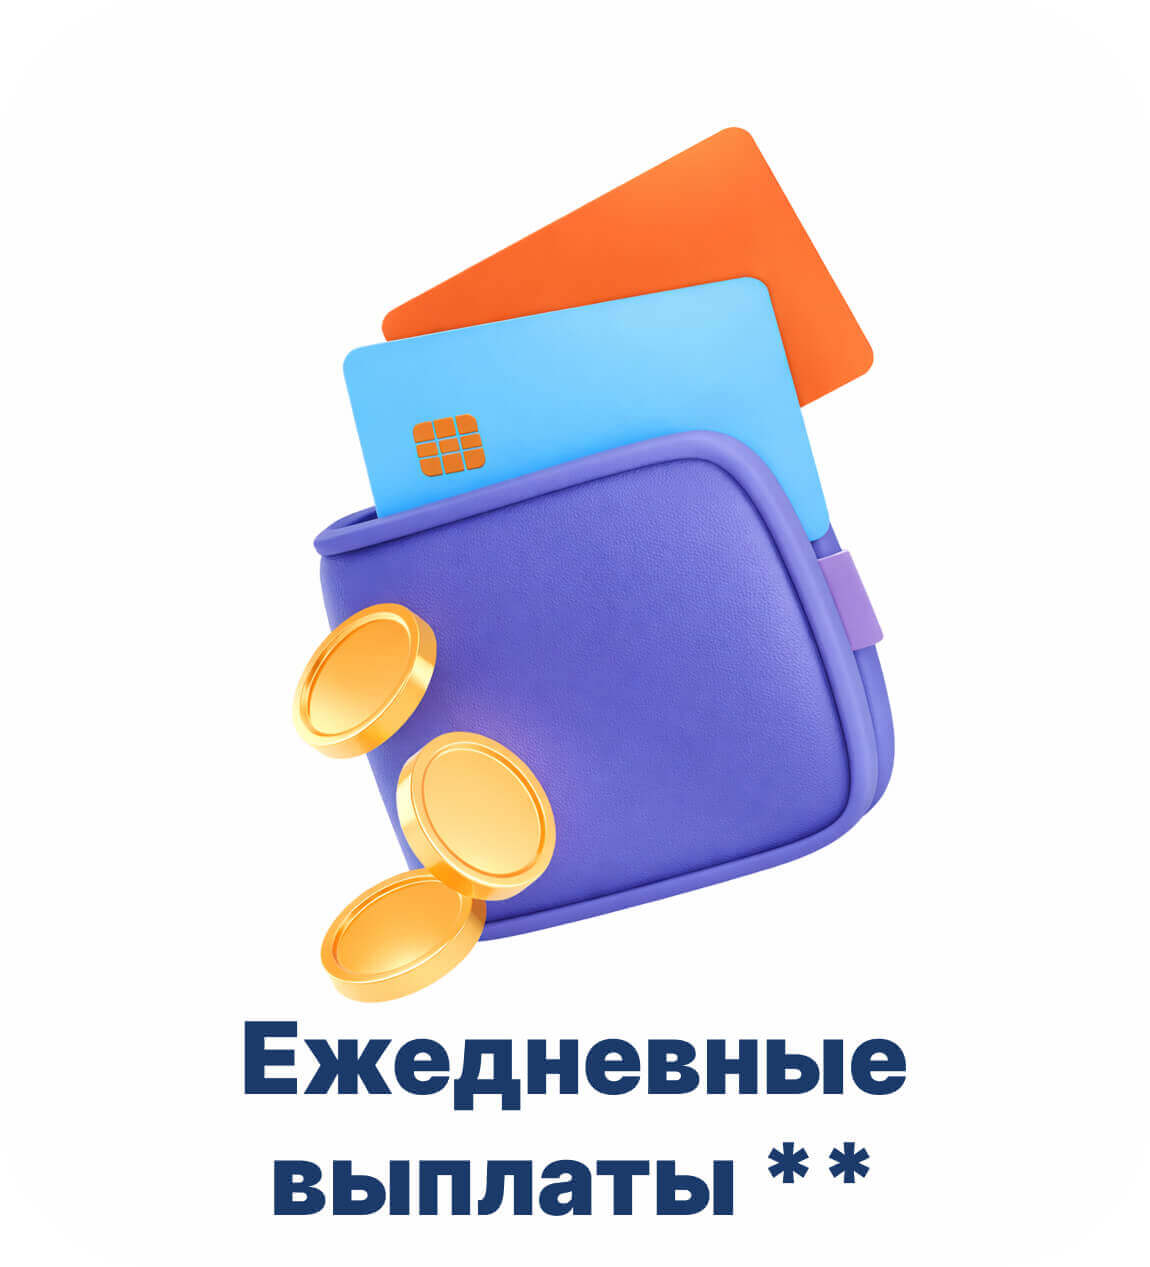
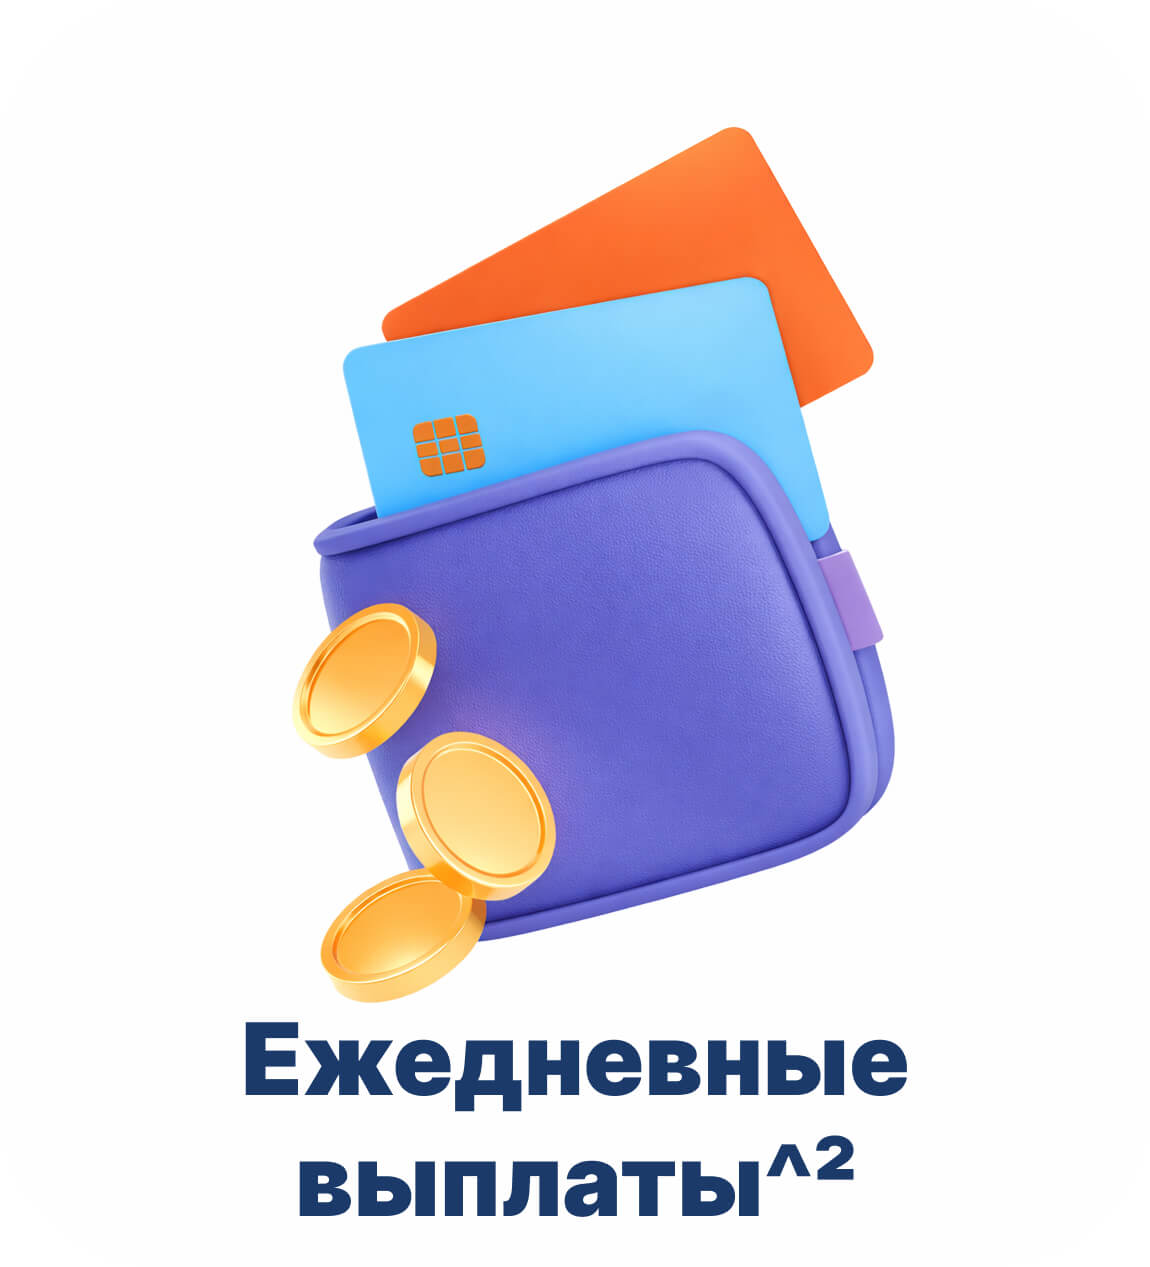
update image; update caption to counter list instead *

Changed region(s): [[0.213, 0.8003, 0.7913, 0.985]]

diff --git a/app/components/AppFooter.vue b/app/components/AppFooter.vue
@@ -8,11 +8,11 @@
       <AppTitle title="Партнер Я.Лавка" size="h2" class="footer-title"/>
       <div class="footer-content">
         <p class="footer-content__paragraph">
-          * Доход указан по данным статистики сервиса Яндекс Еда. Условия и результаты индивидуальны и могут отличаться
+          1. Доход указан по данным статистики сервиса Яндекс Еда. Условия и результаты индивидуальны и могут отличаться
           от указанных.
         </p>
         <p class="footer-content__paragraph">
-          ** Для курьеров, сотрудничающих с сервисом Яндекс Лавка в статусе самозанятых. Выплаты за
+          2. Для курьеров, сотрудничающих с сервисом Яндекс Лавка в статусе самозанятых. Выплаты за
           пятницу, субботу, воскресенье производятся в понедельник. Яндекс Лавка — раздел информационного сервиса Яндекс
           Еда, подробнее: clck.ru/QgJpy. Сотрудничество с организациями, оказывающими услуги по сборке и доставке
           заказов, оформленных с помощью сервиса Яндекс Еда. Чтобы узнать подробности, отправьте заявку. Для

diff --git a/app/components/HeroBanner.vue b/app/components/HeroBanner.vue
@@ -21,7 +21,7 @@ import {REGISTRATION_FORM_LINK} from "~/constants/links";
           title='Станьте курьером у партнера Яндекс Лавки'
           class="hero-banner__title block-title--white"
       />
-      <p class="hero-banner__description">Получайте до 230.000₽ в месяц*</p>
+      <p class="hero-banner__description">Получайте до 230.000₽ в месяц<sup>^1</sup></p>
       <AppButton
           class="hero-banner__link"
           type="link"
@@ -62,6 +62,13 @@ import {REGISTRATION_FORM_LINK} from "~/constants/links";
       @include h3;
       color: var(--head);
       margin-top: 40px;
+
+      sup {
+        font-size: clamp(0.9375rem, 0.75rem + 0.9375vw, 1.875rem);
+        font-weight: inherit;
+        color: inherit;
+        font-family: inherit;
+      }
     }
 
     &__link {
